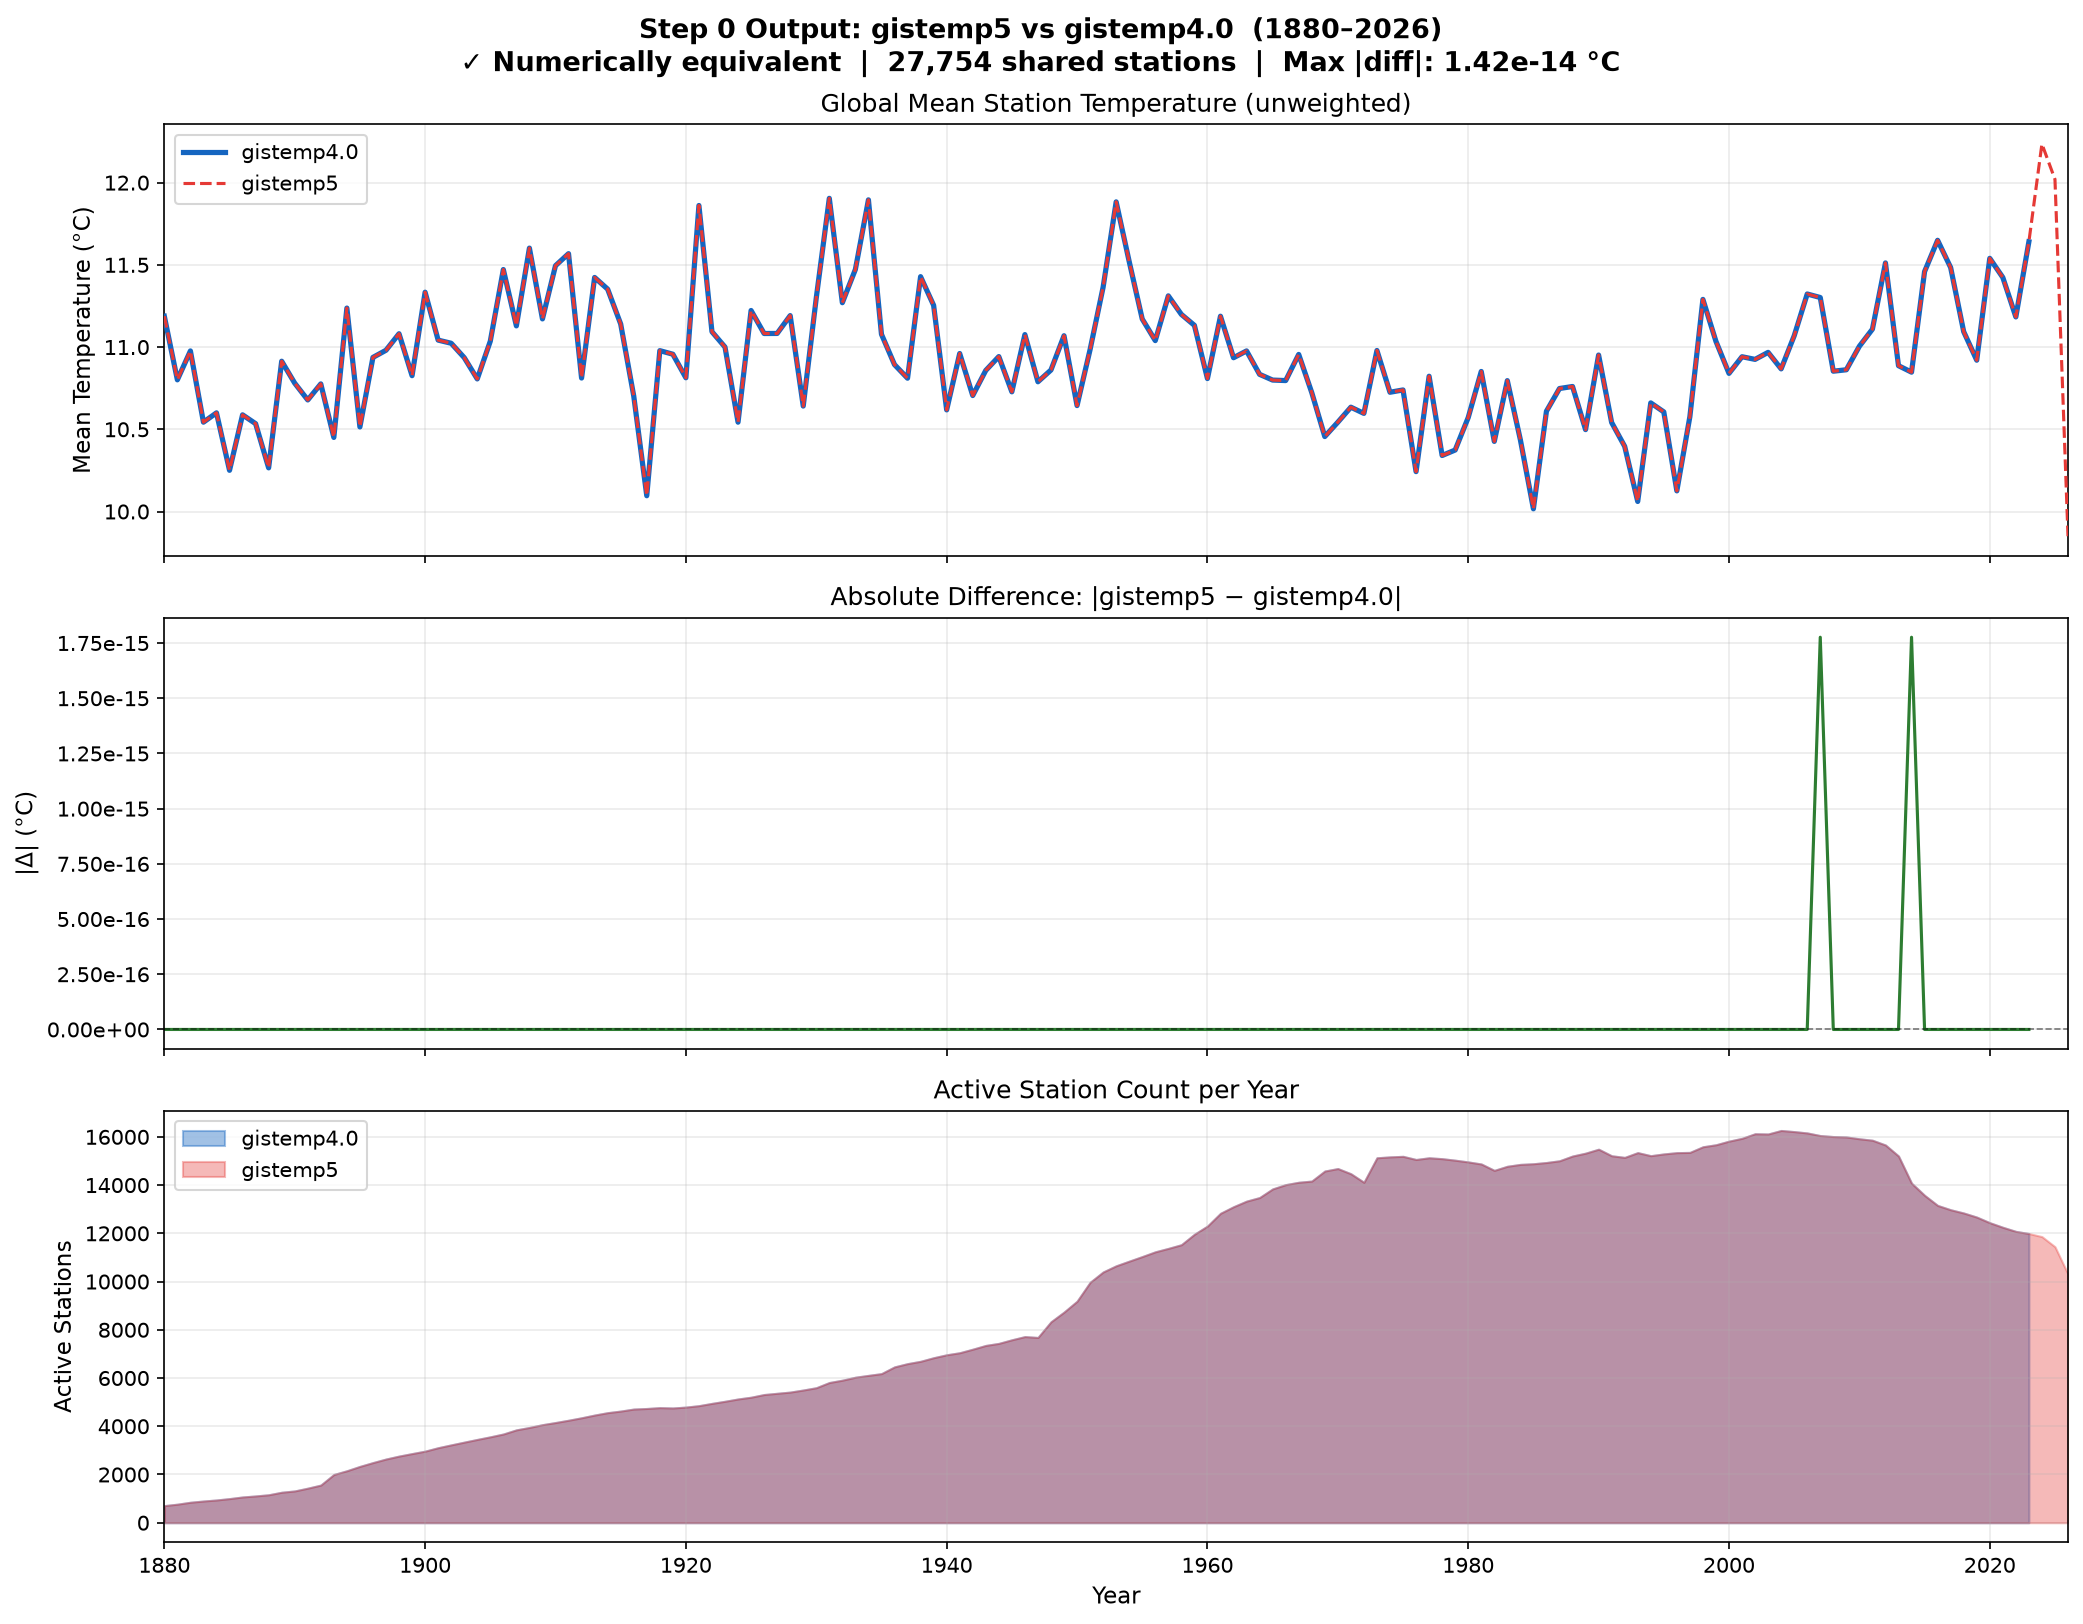
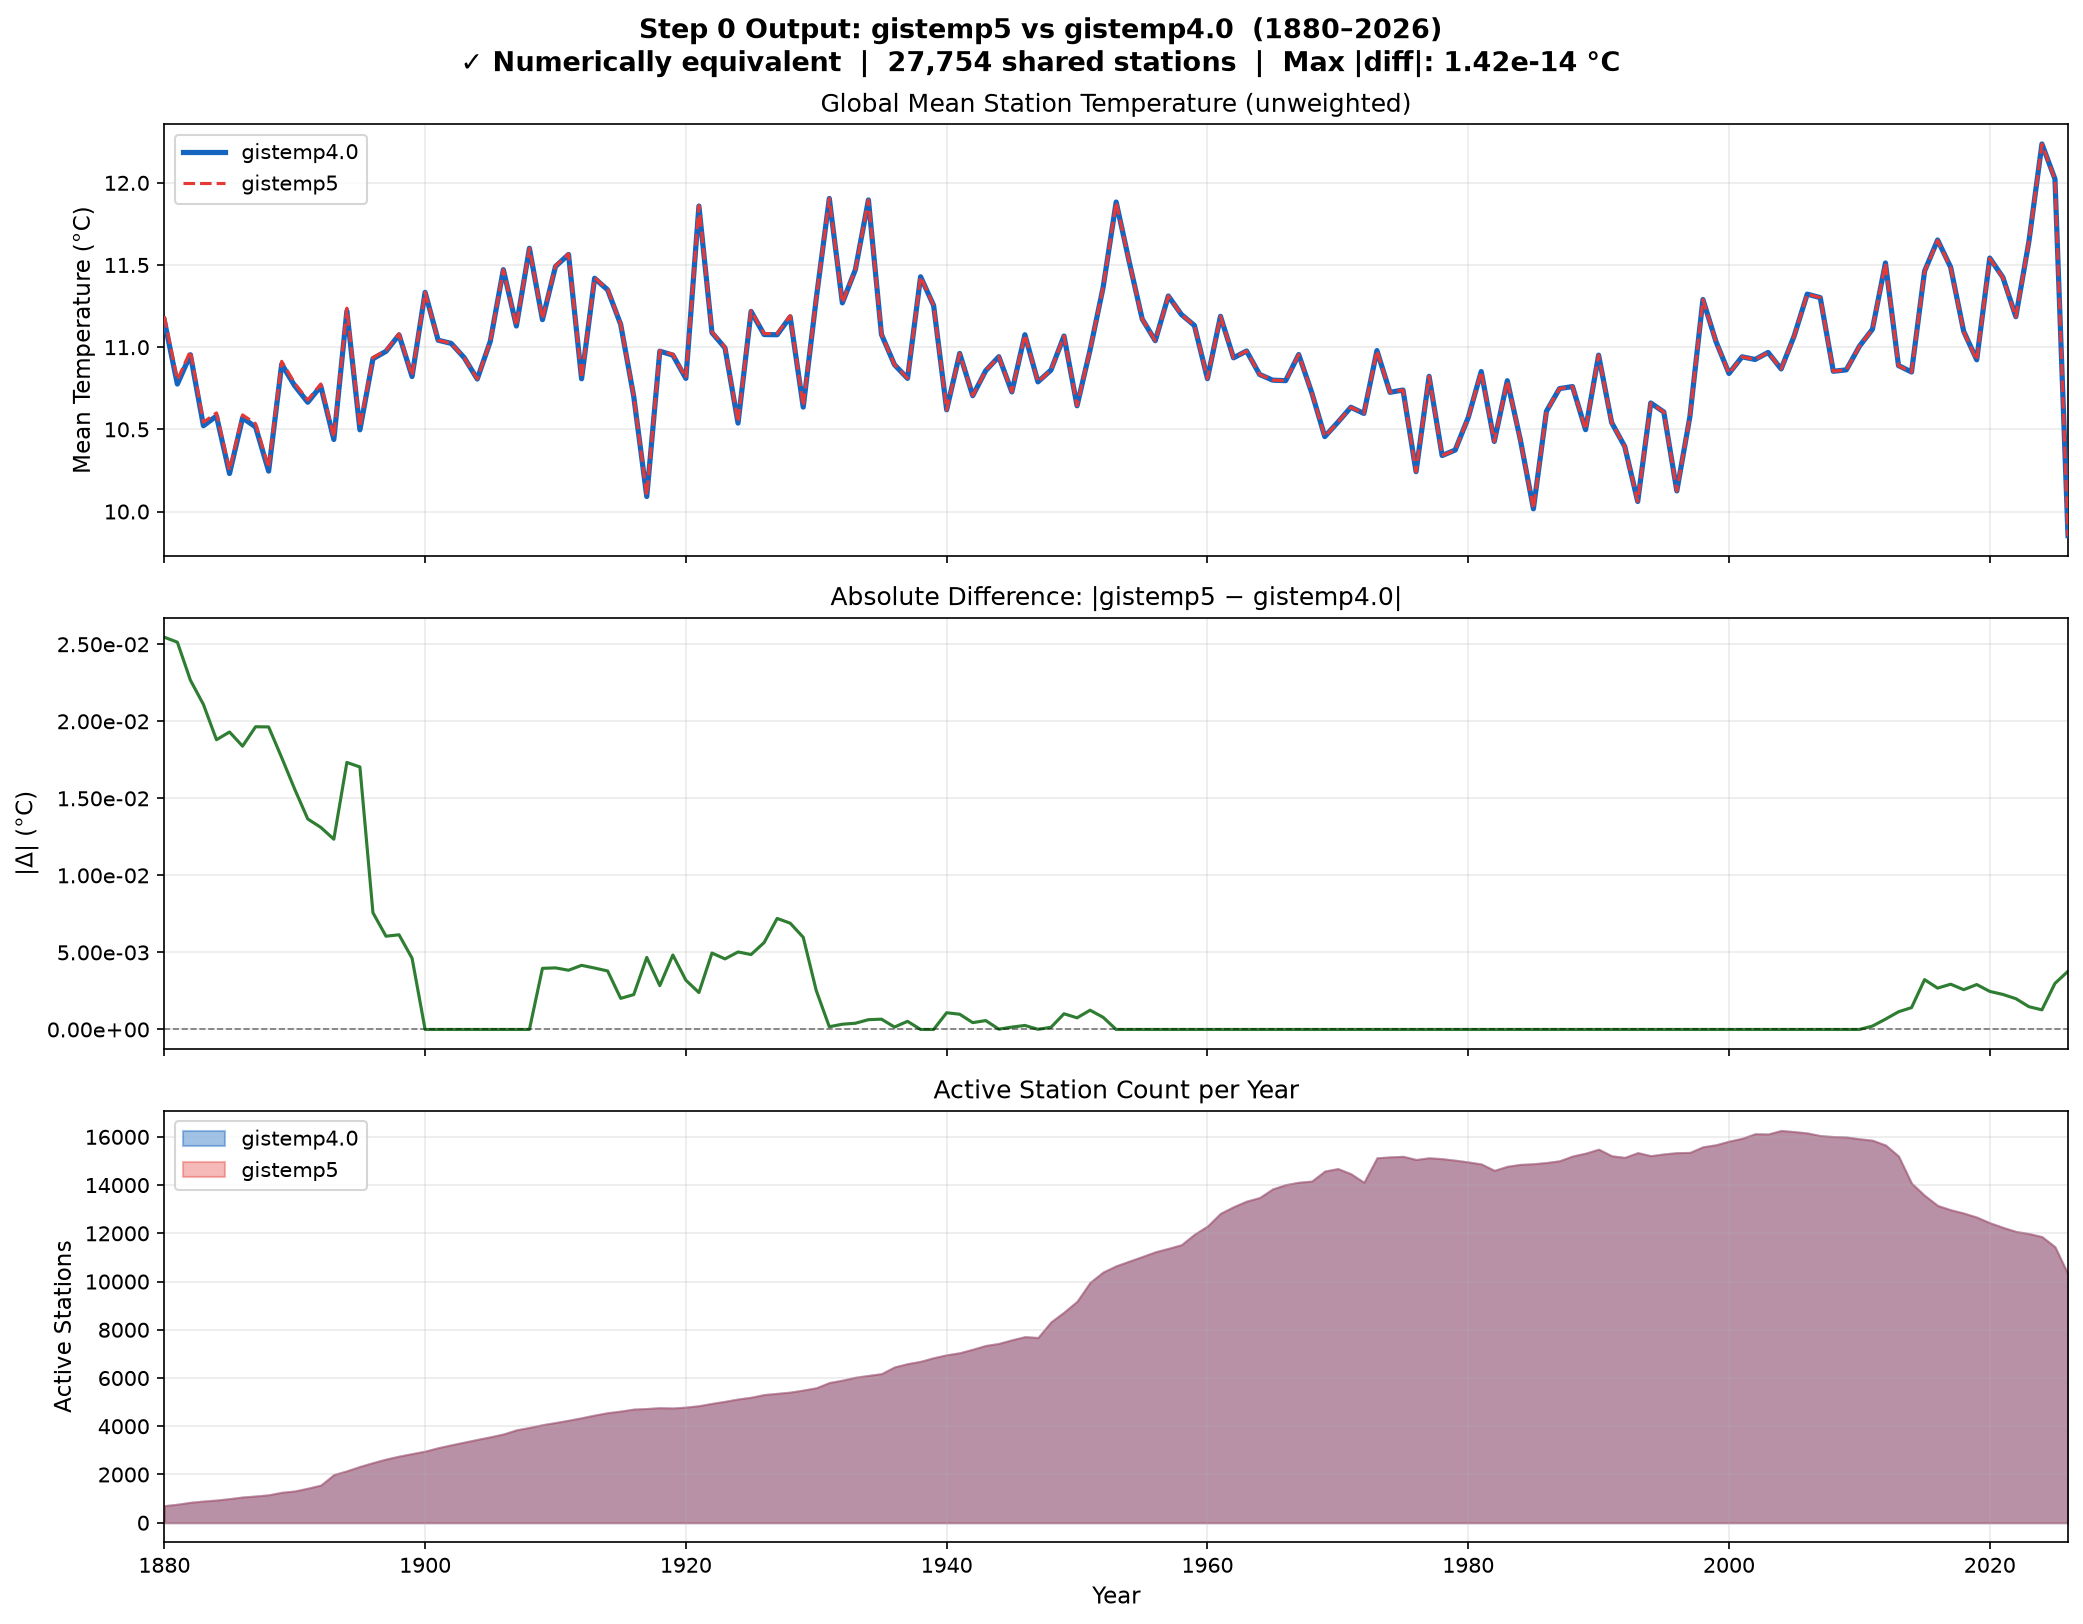
Update step0/1 figures

diff --git a/testing/_v4_step2_dump.py b/testing/_v4_step2_dump.py
@@ -1,8 +1,8 @@
 """
 Internal helper — run from within the gistemp4.0 directory.
-Runs gistemp4.0 step0 → step1 → step2 and writes parquet to <output_path>.
+Runs gistemp4.0 step0 → step1 → step2 and writes parquet files to tmp/.
 
-    python testing/_v4_step2_dump.py <start_year> <end_year> <output_path>
+    python testing/_v4_step2_dump.py <start_year> <end_year> <step2_output_path>
 
 Called as a subprocess by compare_step2.py.
 Requires ghcnm.tavg.qcf.dat, v4.inv, and Ts.strange.v4.list.IN_full
@@ -35,8 +35,6 @@ from tool import gio
 from steps import step0 as v4_step0, step1 as v4_step1
 
 # Patch get_last_year BEFORE importing step2, so MAX_YEARS matches END_YEAR.
-# gistemp4.0 uses time.localtime().tm_year (current year) by default, but we
-# need to match the exact year range we pass to gistemp5 for a fair comparison.
 from steps import giss_data as _giss_data
 _giss_data.get_last_year = lambda: END_YEAR
 
@@ -44,15 +42,53 @@ from steps import step2 as v4_step2
 
 sys.stdout = _real_stdout
 
+import pandas as pd
+
+
+def records_to_df(records, start_year, end_year):
+    """Serialize gistemp4.0 Station records to wide DataFrame."""
+    rows = []
+    for record in records:
+        uid = record.uid
+        try:
+            lat = record.station.lat
+            lon = record.station.lon
+        except AttributeError:
+            lat = lon = ''
+
+        row = {'Station_ID': uid, 'Latitude': lat, 'Longitude': lon}
+
+        for yyyymm, val in record.asdict().items():
+            year  = yyyymm // 100
+            month = yyyymm % 100
+            if start_year <= year <= end_year:
+                row[f'{month}_{year}'] = val
+
+        rows.append(row)
+
+    time_cols = sorted(
+        {k for r in rows for k in r if k not in ('Station_ID', 'Latitude', 'Longitude')},
+        key=lambda c: int(c.split('_')[1]),
+    )
+    fieldnames = ['Station_ID', 'Latitude', 'Longitude'] + time_cols
+
+    buf = io.StringIO()
+    writer = csv.DictWriter(buf, fieldnames=fieldnames, extrasaction='ignore')
+    writer.writeheader()
+    for row in rows:
+        writer.writerow(row)
+    buf.seek(0)
+
+    return pd.read_csv(buf, index_col='Station_ID', low_memory=False)
+
+
 # Run step0 → step1 using gistemp4.0's own I/O
 sys.stdout = open(os.devnull, 'w')
-step0_records = v4_step0.step0(gio.step0_input())
-step1_records = list(v4_step1.step1(step0_records))
+step0_records = list(v4_step0.step0(gio.step0_input()))
+step1_records = list(v4_step1.step1(iter(step0_records)))
 sys.stdout = _real_stdout
 
-# Truncate station records to END_YEAR so gistemp4.0 step2 processes the same
-# year range as our pipeline.  Without this, stations with data in 2024-2025
-# appear in the GHCN file (downloaded in 2026) and inflate valid-month counts.
+# Truncate records to END_YEAR
 def _truncate(records, end_year):
     out = []
     for record in records:
@@ -62,51 +98,30 @@ def _truncate(records, end_year):
         out.append(record)
     return out
 
+step0_records = _truncate(step0_records, END_YEAR)
 step1_records = _truncate(step1_records, END_YEAR)
+
+# Save step0 and step1 in wide format
+step0_path = os.path.join('tmp', 'step0_cache.parquet')
+step1_path = os.path.join('tmp', 'step1_cache.parquet')
+
+df0 = records_to_df(step0_records, START_YEAR, END_YEAR)
+df0.to_parquet(step0_path)
+print(f"Saved {len(df0)} step0 stations to {step0_path}")
+
+df1 = records_to_df(step1_records, START_YEAR, END_YEAR)
+df1.to_parquet(step1_path)
+print(f"Saved {len(df1)} step1 stations to {step1_path}")
 
 # Run step2
 sys.stdout = open(os.devnull, 'w')
 step2_records = list(v4_step2.step2(iter(step1_records)))
 sys.stdout = _real_stdout
 
-# Serialize to wide DataFrame (same format as gistemp5 step2 output)
-rows = []
-for record in step2_records:
-    uid = record.uid
-    try:
-        lat = record.station.lat
-        lon = record.station.lon
-    except AttributeError:
-        lat = lon = ''
-
-    row = {'Station_ID': uid, 'Latitude': lat, 'Longitude': lon}
-
-    for yyyymm, val in record.asdict().items():
-        year  = yyyymm // 100
-        month = yyyymm % 100
-        if START_YEAR <= year <= END_YEAR:
-            row[f'{month}_{year}'] = val
-
-    rows.append(row)
-
-time_cols = sorted(
-    {k for r in rows for k in r if k not in ('Station_ID', 'Latitude', 'Longitude')},
-    key=lambda c: int(c.split('_')[1]),
-)
-fieldnames = ['Station_ID', 'Latitude', 'Longitude'] + time_cols
-
-buf = io.StringIO()
-writer = csv.DictWriter(buf, fieldnames=fieldnames, extrasaction='ignore')
-writer.writeheader()
-for row in rows:
-    writer.writerow(row)
-buf.seek(0)
-
-import pandas as pd
-df = pd.read_csv(buf, index_col='Station_ID', low_memory=False)
+df2 = records_to_df(step2_records, START_YEAR, END_YEAR)
 
 if OUTPUT_PATH:
-    df.to_parquet(OUTPUT_PATH)
-    print(f"Saved {len(df)} stations to {OUTPUT_PATH}")
+    df2.to_parquet(OUTPUT_PATH)
+    print(f"Saved {len(df2)} step2 stations to {OUTPUT_PATH}")
 else:
-    print(df.to_csv())
+    print(df2.to_csv())
